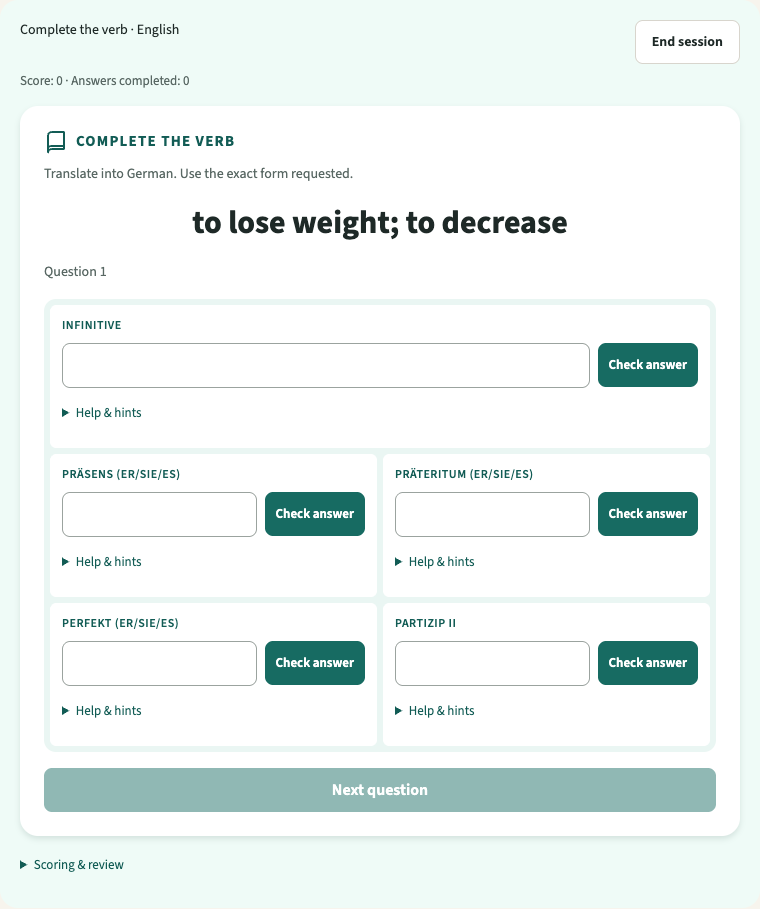
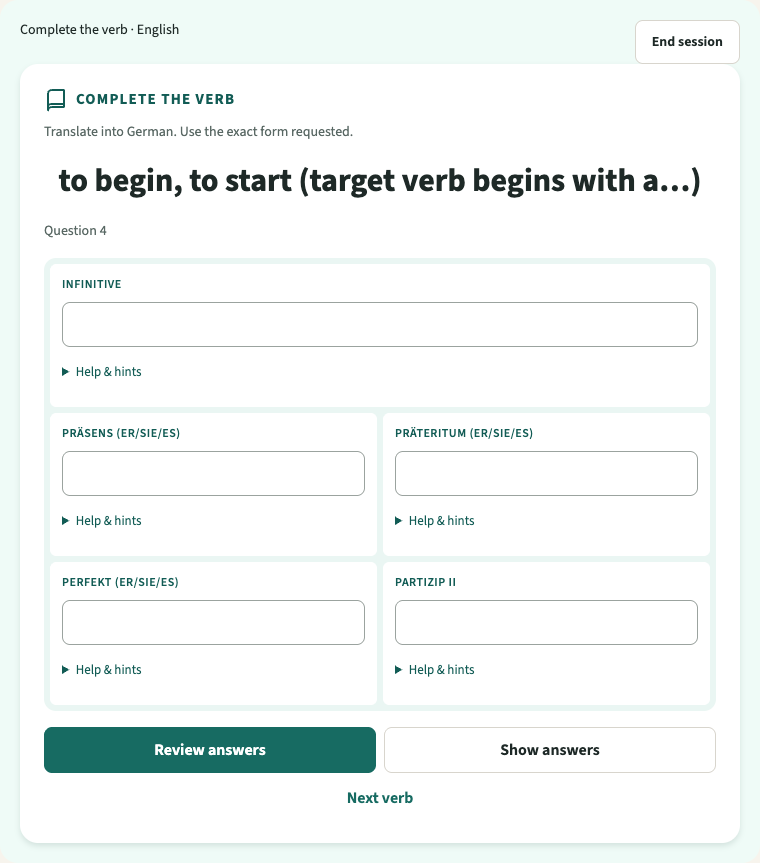
Make complete-verb practice a guided whole-verb review

diff --git a/src/VerbChallenge.tsx b/src/VerbChallenge.tsx
@@ -34,23 +34,23 @@ function AnswerField({ form, field, state, dispatch, compact = false }: { compac
     pendingCaret.current = edit.caret
     dispatch({ type: 'edit', form, turn: state.turn, value: edit.value })
   }
-  return <form className="challenge-field" onSubmit={e => { e.preventDefault(); send('submit') }} aria-label={t(formLabels[form])}>
+  return <form className="challenge-field" onSubmit={e => { e.preventDefault(); compact ? dispatch({ type: 'review-all', turn: state.turn }) : send('submit') }} aria-label={t(formLabels[form])}>
     <label htmlFor={`answer-${form}`}>{t(formLabels[form])}</label>
-    <input id={`answer-${form}`} ref={input} lang="de" value={field.value} disabled={done} autoComplete="off" autoCapitalize="none" autoCorrect="off" spellCheck={false}
+    <input id={`answer-${form}`} ref={input} lang="de" value={compact && field.status === "revealed" ? answer.canonical : field.value} disabled={done} autoComplete="off" autoCapitalize="none" autoCorrect="off" spellCheck={false}
       aria-invalid={field.status === 'wrong' || field.status === 'empty'} aria-describedby={`feedback-${form}`}
       onChange={e => dispatch({ type: 'edit', form, turn: state.turn, value: e.target.value })} />
     {!done && !compact && <div className="german-keys" role="group" aria-label={t('German characters')}>
       {['ä','ö','ü','ß'].map(character => <button key={character} type="button" lang="de" aria-label={t('Insert {character}', { character })} onPointerDown={e => e.preventDefault()} onClick={() => insert(character)}>{character}</button>)}
     </div>}
     <div id={`feedback-${form}`} role="status" className="challenge-feedback">
-      {field.status === 'empty' && <p>{t('Enter an answer before checking.')}</p>}
-      {field.status === 'wrong' && <p>{t('Not yet. Try again, use a hint, or reveal the answer.')}</p>}
+      {field.status === 'empty' && <p>{compact ? t('Try this form, or choose Show answers.') : t('Enter an answer before checking.')}</p>}
+      {field.status === 'wrong' && <p>{compact ? t('Try again, or choose Show answers to learn this form.') : t('Not yet. Try again, use a hint, or reveal the answer.')}</p>}
       {field.status === 'correct' && <p>{t('Correct.')}</p>}
-      {field.status === 'revealed' && <p>{t('Answer revealed: no points.')} <span lang="de">{answer.canonical}</span></p>}
+      {field.status === 'revealed' && <p>{compact ? t('Answer:') : t('Answer revealed: no points.')} <span lang="de">{answer.canonical}</span></p>}
       {field.hints >= 1 && <p>{t('First letter: {letter}', { letter: hint.first })}</p>}
       {field.hints >= 2 && <p>{t('Length: {count} letters or digits; spaces and punctuation excluded.', { count: hint.length })}</p>}
     </div>
-    {!done && <div className="study-toolbar">
+    {!done && !compact && <div className="study-toolbar">
       <Button type="submit">{t('Check answer')}</Button>
       {!compact && field.hints < 2 && <Button variant="secondary" onClick={() => send('hint')}>{field.hints === 0 ? t('First letter hint · maximum 1 point') : t('Length hint · 0 points')}</Button>}
       {!compact && <Button variant="text" onClick={() => send('reveal')}>{t('Reveal answer · 0 points')}</Button>}
@@ -61,8 +61,7 @@ function AnswerField({ form, field, state, dispatch, compact = false }: { compac
         {['ä','ö','ü','ß'].map(character => <button key={character} type="button" lang="de" aria-label={t('Insert {character}', { character })} onPointerDown={e => e.preventDefault()} onClick={() => insert(character)}>{character}</button>)}
       </div>
       <div className="study-toolbar">
-        {field.hints < 2 && <Button variant="secondary" onClick={() => send('hint')}>{field.hints === 0 ? t('First letter hint · maximum 1 point') : t('Length hint · 0 points')}</Button>}
-        <Button variant="text" onClick={() => send('reveal')}>{t('Reveal answer · 0 points')}</Button>
+        {field.hints < 2 && <Button variant="secondary" onClick={() => send('hint')}>{field.hints === 0 ? t('First letter hint') : t('Length hint')}</Button>}
       </div>
     </details>}
   </form>
@@ -79,15 +78,15 @@ function ChallengeSession({ settings, onRestart }: { settings: Settings; onResta
     <div className="study-toolbar"><span>{t(modeLabels[settings.mode])} · {t(promptLabels[settings.language])}</span>
       {!state.ended && <Button variant="secondary" onClick={() => dispatch({ type: 'end' })}>{t('End session')}</Button>}
     </div>
-    <p className="challenge-score">{t('Score: {score} · Answers completed: {count}', { score: state.score, count: state.answered })}</p>
+    {!complete && <p className="challenge-score">{t('Score: {score} · Answers completed: {count}', { score: state.score, count: state.answered })}</p>}
     {state.ended ? <div className="practice-card study-summary" role="status">
-      <h2>{t('Challenge summary')}</h2>
+      {complete ? <><h2>{t('Practice paused')}</h2><p>{t('Take your time. You can practice these verbs again whenever you like.')}</p></> : <><h2>{t('Challenge summary')}</h2>
       <p>{t('Unaided correct: {count}', { count: state.unaided })}</p>
       <p>{t('Hinted correct: {count}', { count: state.hinted })}</p>
       <p>{t('Correct after retry: {count} (may include hints)', { count: state.retried })}</p>
       <p>{t('Revealed answers: {count}', { count: state.revealed })}</p>
-      <p>{t('Unfinished answers are not scored. Practice points do not measure mastery.')}</p>
-      <Button onClick={onRestart}>{t('Change settings and restart')}</Button>
+      <p>{t('Unfinished answers are not scored. Practice points do not measure mastery.')}</p></>}
+      <Button onClick={onRestart}>{complete ? t('Practice again') : t('Change settings and restart')}</Button>
     </div> : <div className={`practice-card ${complete ? "complete-verb-card" : ""}`}>
       {complete && <div className="verb-reference-heading"><Icon name="book" /><span>{t("Complete the Verb")}</span></div>}
       <p>{settings.language === 'de' ? t('Read the definition and enter the requested German verb form.') : t('Translate into German. Use the exact form requested.')}</p>
@@ -96,15 +95,16 @@ function ChallengeSession({ settings, onRestart }: { settings: Settings; onResta
       <div className={complete ? "complete-form-grid" : undefined}>
         {forms.filter(form => state.fields[form]).map(form => <AnswerField key={`${state.turn}:${form}`} compact={complete} form={form} field={state.fields[form]!} state={state} dispatch={dispatch} />)}
       </div>
-      <Button disabled={!finishedQuestion(state)} onClick={() => {
+      {complete && <div className="complete-review-actions">
+        <Button disabled={finishedQuestion(state)} onClick={() => dispatch({ type: 'review-all', turn: state.turn })}>{t('Review answers')}</Button>
+        <Button variant="secondary" disabled={finishedQuestion(state)} onClick={() => dispatch({ type: 'reveal-all', turn: state.turn })}>{t('Show answers')}</Button>
+      </div>}
+      <Button variant={complete ? "text" : "primary"} disabled={!complete && !finishedQuestion(state)} onClick={() => {
         dispatch({ type: 'next', turn: state.turn, random: Math.random() })
         promptHeading.current?.focus()
-      }}>{t('Next question')}</Button>
+      }}>{complete ? t('Next verb') : t('Next question')}</Button>
     </div>}
-    {complete ? <details className="complete-scoring-help"><summary>{t('Scoring & review')}</summary>
-    <p className="small-note">{t('Scoring per answer: 3 unaided, 2 after retry, 1 with a first-letter hint, 0 with length hint or reveal.')}</p>
-    <p className="small-note">{t('Missed forms return more often. Two coverage turns alternate with one review turn. Progress lasts for this session only.')}</p>
-    </details> : <>
+    {!complete && <>
     <p className="small-note">{t('Scoring per answer: 3 unaided, 2 after retry, 1 with a first-letter hint, 0 with length hint or reveal.')}</p>
     <p className="small-note">{t('Missed forms return more often. Two coverage turns alternate with one review turn. Progress lasts for this session only.')}</p>
     </>}
@@ -128,6 +128,6 @@ export default function VerbChallenge({ path = "translation" }: { path?: "transl
     {settings.mode === 'single' && <><label htmlFor="challenge-form">{t('Target form')}</label>
       <select id="challenge-form" value={settings.form} onChange={e => setSettings({ ...settings, form: e.target.value as Form })}>{forms.map(form => <option key={form} value={form}>{t(formLabels[form])}</option>)}</select></>}
     {!completeOnly && <p>{t('Choose one target form, or mix verbs and forms for a varied challenge.')}</p>}
-    <Button onClick={() => setRunning(true)}>{t('Start challenge')}</Button>
+    <Button onClick={() => setRunning(true)}>{completeOnly ? t('Start practice') : t('Start challenge')}</Button>
   </section>
 }

diff --git a/src/verb-challenge.ts b/src/verb-challenge.ts
@@ -85,11 +85,18 @@ export type ChallengeAction =
   | { type: 'edit'; form: Form; turn: number; value: string }
   | { type: 'submit' | 'hint' | 'reveal'; form: Form; turn: number }
   | { type: 'next'; turn: number; random: number }
+  | { type: 'review-all'; turn: number }
+  | { type: 'reveal-all'; turn: number }
   | { type: 'end' }
 export function reduceChallenge(state: Challenge, action: ChallengeAction, verbs: Verb[]): Challenge {
   if (action.type === 'end') return { ...state, ended: true }
   if (state.ended || action.turn !== state.turn) return state
-  if (action.type === 'next') return finishedQuestion(state) ? nextQuestion({ ...state, turn: state.turn + 1 }, verbs, action.random) : state
+  if (action.type === 'review-all' || action.type === 'reveal-all') {
+    if (state.settings.mode !== 'complete') return state
+    const type = action.type === 'review-all' ? 'submit' : 'reveal'
+    return forms.reduce((current, form) => reduceChallenge(current, { type, form, turn: action.turn }, verbs), state)
+  }
+  if (action.type === 'next') return (state.settings.mode === 'complete' || finishedQuestion(state)) ? nextQuestion({ ...state, turn: state.turn + 1 }, verbs, action.random) : state
   const field = state.fields[action.form]
   if (!field || finishedField(field)) return state
   const answer = verbs.find(v => v.id === state.verbId)!.forms[action.form]!

diff --git a/src/index.css b/src/index.css
@@ -557,7 +557,9 @@ td:not(:first-child) { font-weight: 650; }
 @media (max-width: 480px) {
   .complete-form-grid { grid-template-columns: minmax(0, 1fr); }
 }
-.complete-form-grid .challenge-field { display: grid; grid-template-columns: minmax(0, 1fr) auto; column-gap: 8px; align-items: start; }
-.complete-form-grid .challenge-field label, .complete-form-grid .challenge-feedback, .complete-form-grid .complete-field-help { grid-column: 1 / -1; }
-.complete-form-grid .challenge-field input { grid-column: 1; grid-row: 2; }
-.complete-form-grid .challenge-field > .study-toolbar { grid-column: 2; grid-row: 2; margin: 0; }
+/* Review applies to the whole verb; each form stays a simple input cell. */
+.complete-review-actions { display: grid; grid-template-columns: 1fr 1fr; gap: 8px; margin: 16px 0 4px; }
+.complete-review-actions .button { min-height: 44px; padding: 10px; }
+@media (max-width: 360px) {
+  .complete-review-actions { grid-template-columns: 1fr; }
+}

diff --git a/docs/verb-challenges.md b/docs/verb-challenges.md
@@ -5,7 +5,7 @@ Implements issue #20 for verbs only. The learning dashboard opens with Translati
 ## Modes and content
 
 - **Single-form:** choose infinitive, Präsens (er/sie/es), Präteritum (er/sie/es), Perfekt (er/sie/es) or Partizip II. Continue one question at a time until End session.
-- **Complete the verb:** translate a cue into every available form in a compact mint-and-white card, with a two-column form grid on larger screens and rows on phones. Each field keeps its check action visible; expandable Help & hints contains German character buttons, hints and reveal. Scoring details are also expandable. Correct fields stay locked while other fields remain editable.
+- **Complete the verb:** translate a cue into every available form in a compact mint-and-white card, with a two-column form grid on larger screens and rows on phones. One Review answers button checks all fields; Show answers reveals every unfinished form immediately. Learners can retry or choose Next verb at any time. Expandable Help & hints contains German character buttons and optional hints. This mode shows no scores, point penalties or scored summary. Correct fields stay locked while other fields remain editable.
 - **Mixed:** vary the verb and requested form, avoiding an immediate identical question where possible.
 
 The existing workbook-derived JSON supplies 148 verbs. Four source forms plus the infinitive yield 740 targets. `buildVerbs` maps the existing labelled cards to a typed verb/answer model with stable verb + form keys; it never invents missing forms. Empty forms are excluded, malformed/duplicate data fails validation, and tests audit the entire source dataset. Prompts follow the website language: English, Spanish and French use workbook translations and cue overrides; Dutch uses added translations; German uses definitions. There is no separate prompt-language selector. Switching interface language during a session updates the current cue without resetting the verb, typed answers or score. All five languages cover the same 148 verbs.

diff --git a/docs/internationalization.md b/docs/internationalization.md
@@ -30,7 +30,7 @@ Issues #13 and #14 remain separate. Their future download, update and installati
 
 ## Validation
 
-- 293 message keys in each of five catalogues, with complete keys and matching interpolation parameters.
+- 305 message keys in each of five catalogues, with complete keys and matching interpolation parameters.
 - Unit checks: browser-language detection, saved-preference priority, fallback, locale-aware numbers/plurals and source-audit rejection cases; existing study-session tests still pass.
 - The original PR's Chrome checks at 1280px and 390px covered the four languages it introduced, all nine decks and all six screens. The Spanish addition is covered by the locale-detection, catalogue-completeness, interpolation/plural and production-build checks. The original browser checks covered empty/error states, dialogs, notifications, tabs, metadata and lack of horizontal overflow.
 - Switched languages while an answer was visible and during a complete study/review round; cards, ratings and review state were preserved.
